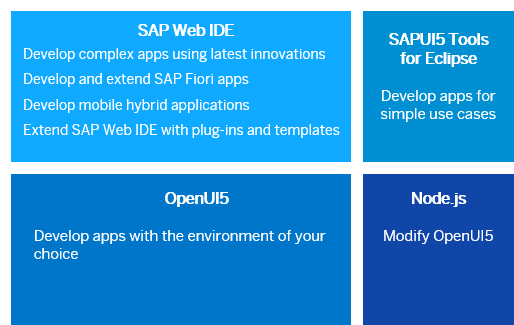
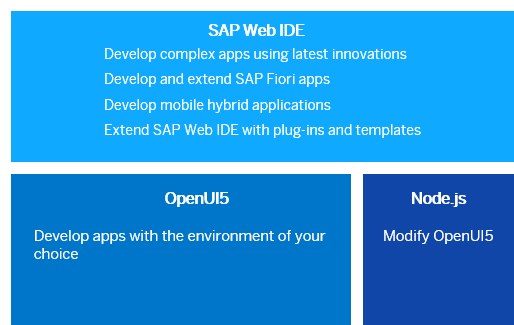
OpenUI5 Documentation Update 28.11.2019

diff --git a/docs/Resource_Handling_Modularization_and_Localization_91f2b4d.md b/docs/Resource_Handling_Modularization_and_Localization_91f2b4d.md
@@ -10,7 +10,7 @@ view on: [demo kit nightly build](https://openui5nightly.hana.ondemand.com/#/top
 
 ## Resource Handling: Modularization and Localization
 
-The handling of resources in OpenUI5 is divided in a client-side and a server-side part. The two parts are complementary and do not depend on each other.
+The handling of resources in OpenUI5 is divided in a client-side and a server-side part. The two parts are complementary and don’t depend on each other.
 
 The server-side resource handling is an optional component to improve the client-server interaction by providing a server-side locale fallback instead of a client-side fallback with multiple requests. The server-side resource handling is mainly used in Eclipse to support the modularized development of OpenUI5 applications and libraries.
 
@@ -18,7 +18,7 @@ The server-side resource handling is an optional component to improve the client
 
 <a name="loio91f2b4d66f4d1014b6dd926db0e91070__section_866E1131207A4BD98456A7C2E53F12D3"/>
 
-### Client-side Resource Handling
+### Client-Side Resource Handling
 
 OpenUI5 provides the following mechanism for handling resources on the client:
 
@@ -33,9 +33,9 @@ In both cases, OpenUI5 loads additional resources from a server. This server can
 
 <a name="loio91f2b4d66f4d1014b6dd926db0e91070__section_6913A7D3F65341FBA039B6231078E45C"/>
 
-### Server-side Resource Handling
+### Server-Side Resource Handling
 
-For the Java server and the integration into Eclipse, OpenUI5 provides a resource handler to improve the interaction between client and server, for example by providing a server-side locale fallback for the language to avoid multiple requests to get the correct language. It is also used to support modularized development of OpenUI5 applications and libraries. The Java resource handler is aligned with the concept of the JavaServer Faces.
+For the Java server and the integration into Eclipse, OpenUI5 provides a resource handler to improve the interaction between client and server, for example by providing a server-side locale fallback for the language to avoid multiple requests to get the correct language. It’s also used to support modularized development of OpenUI5 applications and libraries. The Java resource handler is aligned with the concept of the JavaServer Faces.
 
 -   The default implementation must support packaging resources in the web application root under the path `resources/<resourceIdentifier>` relative to the web app root.
 
@@ -50,18 +50,18 @@ The OpenUI5 resource handler extends this concept to support standard and test-r
 
 -    `test-resources/**` 
 
-    Test resources are resources which are samples and only relevant for testing purposes e.g. the content of the OpenUI5 test suite.
+    Test resources are resources that are samples and only relevant for testing purposes, for example, the content of the OpenUI5 test suite.
 
 
 The resource handler in OpenUI5 provides the following additional features:
 
 -   Theme fallback:
 
-    If resources are not available for a theme, the resource handler automatically checks the base theme for such resources and returns them instead of a 404 error message.
+    If resources aren’t available for a theme, the resource handler automatically checks the base theme for such resources and returns them instead of a 404 error message.
 
 -   Resource bundle fallback:
 
-    This fallback is similar to the client-side mechanism for loading resource bundles, but it negotiates the request on the server and returns the best found resource bundle instead of issueing a 404 error, for example:
+    This fallback is similar to the client-side mechanism for loading resource bundles, but it negotiates the request on the server and returns the best found resource bundle instead of issuing a 404 error, for example:
 
     `messagebundle_en_US.properties > messagebundle_en.properties > messagebundle.properties` 
 
@@ -115,17 +115,17 @@ Before you use it, make sure that the `ResourceServlet` is available in the clas
 
 ### Configuration
 
-The resource handler is configured via context parameters which are defined in the `web.xml`. The following table gives an overview about configuration parameters:
+The resource handler is configured via context parameters, which are defined in the `web.xml`. The following table gives an overview about configuration parameters:
 
 |Key|Description|
 |---|-----------|
 |`com.sap.ui5.resource.USE_CACHE`|Flag for resource cache enabling; default: `true`|
-|`com.sap.ui5.resource.MAX_AGE`|Specifies the maximum age of resources in millis; default: `604800000` = 1 week|
+|`com.sap.ui5.resource.MAX_AGE`|Specifies the maximum age of resources in milliseconds; default: `604800000` = 1 week|
 |`com.sap.ui5.resource.ACCEPTED_ORIGINS`|List of accepted origins, for example `*`, `*mycompany.corp`, or `server.mycompany.corp`; default: empty|
 |`com.sap.ui5.resource.DEV_MODE`|Flag development mode enabling; default: `false`|
 |`com.sap.ui5.resource.TEMPLATE_PATH`|Specifies path to template for resource listing; default: `/templates/listing.html`|
 |`com.sap.ui5.resource.VERBOSE`|Specifies verbosity of the resource handler; default: `false`|
-|`com.sap.ui5.resource.REMOTE_LOCATION`|Specifies the location that is used to proxy requests to resources that are not available locally; default: empty|
+|`com.sap.ui5.resource.REMOTE_LOCATION`|Specifies the location that is used to proxy requests to resources that aren’t available locally; default: empty|
 |`com.sap.ui5.resource.PREFER_REMOTE_LOCATION`|Flag to resolve the resource from the remote location before fallback to classpath; default: `false`|
 |`com.sap.ui5.resource.USE_SERVER_CACHE`|Flag to enable caching of any resources in resource servlet; default: `true` \(default in dev mode: `false`|
 
@@ -137,7 +137,7 @@ Configuration parameters are added as context parameters to the web.xml.
 
 ### Development Mode
 
-When starting to develop OpenUI5 controls and modules being located inside the servlet paths `resources/` or `test-resources/` it makes the development process easier to disable the caching of such resources as well as to enable the resource browsing. To activate the development mode, add the following context parameter:
+When you're starting to develop OpenUI5 controls and modules being located inside the servlet paths `resources/` or `test-resources/`, it makes the development process easier to disable the caching of such resources as well as to enable the resource browsing. To activate the development mode, add the following context parameter:
 
 ``` xml
   <!-- BEGIN: DEV MODE -->
@@ -176,13 +176,13 @@ You can use the `ResourceServlet` to tunnel/proxy requests to another server tha
 
 This dispatches the requests from `resources/sap/m/Button.js` to `http://%server%:%port%/sapui5/resources/sap/m/Button.js`.
 
-If you are located behind a proxy and the remote location is outside your local network you can configure the proxy settings via the standard Java Networking and Proxy configurations by setting the system properties \(for HTTP\): `http.proxyHost`, `http.proxyPort`, `http.nonProxyHosts`, or \(for HTTPS\) `https.proxyHost`, `https.proxyPort`, `https.nonProxyHosts` of your Java runtime environment.
+If you are located behind a proxy and the remote location is outside your localnetwork, you can configure the proxy settings via the standard Java Networking and Proxy configurations by setting the system properties \(for HTTP\): `http.proxyHost`, `http.proxyPort`, `http.nonProxyHosts`, or \(for HTTPS\) `https.proxyHost`, `https.proxyPort`, `https.nonProxyHosts` of your Java runtime environment.
 
-In general for the resources returned from the proxy the `ResourceServlet` is enabling caching. By default, it uses the configured `com.sap.ui5.resource.MAX_AGE` to avoid too much load on the `ResourceServlet`.
+In general, for the resources returned from the proxy the `ResourceServlet` is enabling caching. By default, it uses the configured `com.sap.ui5.resource.MAX_AGE` to avoid too much load on the `ResourceServlet`.
 
 **Verify that a Resource was Retrieved from Remote Location**
 
-When in development mode it is possible to verify that a resource was retrieved from the desired remote location by checking the response header of the respective request. In this case the response header has an entry *x-sap-ResourceUrl = remote resource URL*, for example:
+When in development mode, it’s possible to verify that a resource was retrieved from the desired remote location by checking the response header of the respective request. In this case, the response header has an entry `x-sap-ResourceUrl = remote resource URL`, for example:
 
 ```
 x-sap-ResourceUrl = http://%server%:%port%/sap/public/bc/ui5_ui5/resources/sap-ui-core.js
@@ -218,7 +218,7 @@ Store the resources as follows:
         **/**
     ```
 
-    For custom JAR files you need to apply to this on your own.
+    For custom JAR files, you need to apply to this on your own.
 
 
 ***
@@ -229,9 +229,9 @@ Store the resources as follows:
 
 When you run OpenUI5 as an OSGi web bundle and reference the UI libraries as OSGi bundles, you need to determine the OpenUI5 OSGi bundles:
 
--   Extend the `ResourceServlet` in the OSGi servlet container by using an OSGi fragment that is responsible to add the OSGi flavor for the determination of UI libaries. Now the `ResourceServlet` is aware of the OSGi bundles and can search within the OSGi servlet container for UI libraries.
+-   Extend the `ResourceServlet` in the OSGi servlet container by using an OSGi fragment that is responsible to add the OSGi flavor for the determination of UI libraries. Now, the `ResourceServlet` is aware of the OSGi bundles and can search within the OSGi servlet container for UI libraries.
 
--   The `OSGiResourceServlet` uses the following entry in the `MANIFEST.MF` of the UI library's JAR files to determin the relevant UI libraries:
+-   The `OSGiResourceServlet` uses the following entry in the `MANIFEST.MF` of the UI library's JAR files to determine the relevant UI libraries:
 
     ```
     x-sap-ui5-ContentTypes: UILibrary

diff --git a/docs/OData_Operations_b54f789.md b/docs/OData_Operations_b54f789.md
@@ -102,6 +102,63 @@ You append "\(...\)" even though the action's resource URL does not contain them
 
 ### Operation Parameters
 
+You can use the parameters of a deferred operation binding inside an XML view without the need to use an additional UI model.
+
+The parameters are addressed by the path prefix "$Parameter". This can either be done by binding each parameter to the path prefix "$Parameter" \(Option 1\) or by having an outer binding with a "$Parameter" path \(Option 2\).
+
+> Note:
+> The path "$Parameter" must not be added directly to the path of a deferred operation binding. A deferred operation binding is identified by an ellipsis at the end of the path.
+> 
+> 
+
+This is how to bind each parameter individually:
+
+**View:**
+
+> Note:
+> Binding parameters to a dialog \(Option 1\)
+> 
+> ``` xml
+> <Dialog binding="{/ChangeTeamBudgetByID(...)}" id="operation1" title ="Change Team Budget">
+>     <buttons>
+>         ...         
+>     </buttons>
+>     <form:SimpleForm>
+>         <Label text="TeamID" />
+>         <Input value="{$Parameter/TeamID}" />
+>         <Label text="Budget" />
+>         <Input value="{$Parameter/Budget}" />
+>     </form:SimpleForm>
+> </Dialog>
+> ```
+> 
+> 
+
+Alternatively, you may bind the entire form to the `$Parameter` context:
+
+**View:**
+
+> Note:
+> Binding parameters to a dialog \(Option 2\)
+> 
+> ``` xml
+> <Dialog binding="{/ChangeTeamBudgetByID(...)}" id="operation2" title="Change Team Budget">
+>     <buttons>
+>         ...         
+>     </buttons>
+>     <form:SimpleForm binding="{$Parameter}">
+>         <Label text="TeamID" />
+>         <Input value="{TeamID}" />
+>         <Label text="Budget" />
+>         <Input value="{Budget}" />
+>     </form:SimpleForm>
+> </Dialog>
+> ```
+> 
+> 
+
+In either case, the values of the parameters are set using the model binding of the control, with no need to write any application code.
+
 Operation parameters can be set by calling the function `setParameter` on the operation binding, as shown in this example:
 
 **Controller:**
@@ -111,6 +168,36 @@ onSubmit : function (oEvent) {
     this.getView().byId("Submit").getObjectBinding().setParameter("Comment", sComment).execute();
 }
 ```
+
+The API method `getParameterContext` can be used to access parameters in controller code, see also [Accessing Data in Controller Code](Accessing_Data_in_Controller_Code_17b30ac.md)
+
+The example below demonstrates how a budget may be modified depending on the `TeamID`:
+
+**Controller:**
+
+> Note:
+> Reading parameter values using the parameter context
+> 
+> ``` js
+> adaptBudgetToTeam : function (){
+>     var oDialog = this.oView.byId("operation2"); // the second dialog in the paragraph before
+>         oParameterContext = oDialog.getObjectBinding().getParameterContext();
+>  
+>  
+>     if (oParameterContext.getProperty("TeamID') === "STARTUP") {
+>         oParameterContext.setProperty("Budget", 555.55);
+>     else {
+>         oParameterContext.setProperty("Budget", 123.45);
+>     }
+> }
+> ```
+> 
+> 
+
+> Note:
+> The parameter context is only defined if the operation binding is resolved.
+> 
+> 
 
 ***
 

diff --git a/docs/Make_Your_App_Performant_9c6400e.md b/docs/Make_Your_App_Performant_9c6400e.md
@@ -14,19 +14,19 @@ In case of performance issues, follow this checklist to see if you can resolve t
 
 Steps to check:
 
--   Use the UI5 Support Assistant to check for known issues: [Support Assistant](Support_Assistant_57ccd7d.md)
--   Use the content delivery network network \(CDN / AKAMAI\) to reduce latency effects: [Variant for Bootstrapping from Content Delivery Network](Variant_for____________Bootstrapping_from_Content_Delivery_Network_2d3eb2f.md)
--   Make sure that library preloads are active: XXXXXXXXXXXXXXXXXXXXXXXXXXX
--   Ensure that library preloads and modules are loaded asynchronously: [Use Asynchronous Loading](Use_Asynchronous_Loading_676b636.md)
--   Ensure that application resources are loaded via component preload: XXXXXXXXXXXXXXXXXXXXXX
--   Ensure that `jquery.sap.*` modules are migrated to their modularised variants: [Legacy jQuery.sap Replacement](Legacy_jQuery.sap_Replacement_a075ed8.md)
--   Check if the synchronous variants of UI5 factories are migrated to asynchronous variants: [Legacy Factories Replacement](Legacy_Factories_Replacement_491bd9c.md)
--   Ensure that model preload is enabled: [Manifest Model Preload](Manifest_Model_Preload_26ba6a5.md)
--   Check for slow network requests: XXXXXXXXXXXXXXXX
--   Check the amount of controls and data bindings: XXXXXXXXXXXXXXXXX
--   Render pages while waiting for the response of network requests \(reduce idle times\): XXXXXXXXXXXXX
--   Ensure that OData V2 metadata caching is enabled: XXXXXXXXXXXXX
--   Cache XML Preprocessor results: XXXXXXXXXXXXXXXXXXXX
+1.  Use the UI5 Support Assistant to check for known issues: [Support Assistant](Support_Assistant_57ccd7d.md)
+2.  Use the content delivery network network \(CDN / AKAMAI\) to reduce latency effects: [Variant for Bootstrapping from Content Delivery Network](Variant_for____________Bootstrapping_from_Content_Delivery_Network_2d3eb2f.md)
+3.  Make sure that library preloads are active: XXXXXXXXXXXXXXXXXXXXXXXXXXX
+4.  Ensure that library preloads and modules are loaded asynchronously: [Use Asynchronous Loading](Use_Asynchronous_Loading_676b636.md)
+5.  Ensure that application resources are loaded via component preload: XXXXXXXXXXXXXXXXXXXXXX
+6.  Ensure that `jquery.sap.*` modules are migrated to their modularised variants: [Legacy jQuery.sap Replacement](Legacy_jQuery.sap_Replacement_a075ed8.md)
+7.  Check if the synchronous variants of UI5 factories are migrated to asynchronous variants: [Legacy Factories Replacement](Legacy_Factories_Replacement_491bd9c.md)
+8.  Ensure that model preload is enabled: [Manifest Model Preload](Manifest_Model_Preload_26ba6a5.md)
+9.  Check for slow network requests: XXXXXXXXXXXXXXXX
+10. Check the amount of controls and data bindings: XXXXXXXXXXXXXXXXX
+11. Render pages while waiting for the response of network requests \(reduce idle times\): XXXXXXXXXXXXX
+12. Ensure that OData V2 metadata caching is enabled: XXXXXXXXXXXXX
+13. Cache XML Preprocessor results: XXXXXXXXXXXXXXXXXXXX
 
 Blog: SAPUI5 Application Startup Performance - Troubleshooting
 

diff --git a/docs/0index.md b/docs/0index.md
@@ -29,20 +29,6 @@ OpenUI5 Version for the OpenUI5 Demo Kit
                 -   [Create an index.html File](Create_an_index.html_File_f7cbafc.md)
                 -   [Run the App](Run_the_App_745424a.md)
                 -   [Create a Northwind Destination](Create_a_Northwind_Destination_3a16c7a.md)
-            -   [App Development Using SAPUI5 Tools for Eclipse](App_Development_Using_SAPUI5_Toolsfor_Eclipse_0404f90.md)
-                -   [Installing SAPUI5 Tools for Eclipse](Installing_SAPUI5_Tools_forEclipse_f25b203.md)
-                -   [Using SAPUI5 Tools for Eclipse](Using_SAPUI5_Tools_forEclipse_510d6ee.md)
-                    -   [Create an SAPUI5 Application Project](Create_an_SAPUI5_Application_Project_da0c8ca.md)
-                    -   [Add a Control to Your View](Add_a_Control_to_Your_View_07d2bdc.md)
-                    -   [Implement a Method in the Controller](Implement_a_Method_in_the_Controller_10c6b87.md)
-                    -   [Create an Additional View](Create_an_Additional_View_727bc3f.md)
-                    -   [Integrate a New View](Integrate_a_New_View_5da1208.md)
-                    -   [JavaScript Code Completion](JavaScript_Code_Completion_85ce1ed.md)
-                    -   [Linking your Eclipse Editor to the Demo Kit](Linking_your_Eclipse_Editor_to_the_Demo_Kit_8d80e84.md)
-                    -   [Use JavaScript and XML Templates](Use_JavaScript_and_XML_Templates_fcf5e9b.md)
-                    -   [SAPUI5 Snippets](SAPUI5_Snippets_b43514f.md)
-                    -   [Running an App in the Application Preview](Running_an_App_in_the_Application_Preview_05a9c69.md)
-                        -   [Use a SimpleProxyServlet for Testing to Avoid Cross-domain Requests](Use_a_SimpleProxyServlet_for_Testing_to_Avoid_Cross-domain_Requests_2d3f5fb.md)
             -   [Developing OpenUI5](Developing_OpenUI5_ee8726a.md)
             -   [Development for Hybrid Web Containers](Development_for_Hybrid_Web_Containers_293eb94.md)
         -   [Quick Start](Quick_Start_592f36f.md)

diff --git a/docs/index.md b/docs/index.md
@@ -29,20 +29,6 @@ OpenUI5 Version for the OpenUI5 Demo Kit
                 -   [Create an index.html File](Create_an_index.html_File_f7cbafc.md)
                 -   [Run the App](Run_the_App_745424a.md)
                 -   [Create a Northwind Destination](Create_a_Northwind_Destination_3a16c7a.md)
-            -   [App Development Using SAPUI5 Tools for Eclipse](App_Development_Using_SAPUI5_Toolsfor_Eclipse_0404f90.md)
-                -   [Installing SAPUI5 Tools for Eclipse](Installing_SAPUI5_Tools_forEclipse_f25b203.md)
-                -   [Using SAPUI5 Tools for Eclipse](Using_SAPUI5_Tools_forEclipse_510d6ee.md)
-                    -   [Create an SAPUI5 Application Project](Create_an_SAPUI5_Application_Project_da0c8ca.md)
-                    -   [Add a Control to Your View](Add_a_Control_to_Your_View_07d2bdc.md)
-                    -   [Implement a Method in the Controller](Implement_a_Method_in_the_Controller_10c6b87.md)
-                    -   [Create an Additional View](Create_an_Additional_View_727bc3f.md)
-                    -   [Integrate a New View](Integrate_a_New_View_5da1208.md)
-                    -   [JavaScript Code Completion](JavaScript_Code_Completion_85ce1ed.md)
-                    -   [Linking your Eclipse Editor to the Demo Kit](Linking_your_Eclipse_Editor_to_the_Demo_Kit_8d80e84.md)
-                    -   [Use JavaScript and XML Templates](Use_JavaScript_and_XML_Templates_fcf5e9b.md)
-                    -   [SAPUI5 Snippets](SAPUI5_Snippets_b43514f.md)
-                    -   [Running an App in the Application Preview](Running_an_App_in_the_Application_Preview_05a9c69.md)
-                        -   [Use a SimpleProxyServlet for Testing to Avoid Cross-domain Requests](Use_a_SimpleProxyServlet_for_Testing_to_Avoid_Cross-domain_Requests_2d3f5fb.md)
             -   [Developing OpenUI5](Developing_OpenUI5_ee8726a.md)
             -   [Development for Hybrid Web Containers](Development_for_Hybrid_Web_Containers_293eb94.md)
         -   [Quick Start](Quick_Start_592f36f.md)

diff --git a/docs/sidebar.md b/docs/sidebar.md
@@ -23,20 +23,6 @@
                 -   [Create an index.html File](Create_an_index.html_File_f7cbafc.md)
                 -   [Run the App](Run_the_App_745424a.md)
                 -   [Create a Northwind Destination](Create_a_Northwind_Destination_3a16c7a.md)
-            -   [App Development Using SAPUI5 Tools for Eclipse](App_Development_Using_SAPUI5_Toolsfor_Eclipse_0404f90.md)
-                -   [Installing SAPUI5 Tools for Eclipse](Installing_SAPUI5_Tools_forEclipse_f25b203.md)
-                -   [Using SAPUI5 Tools for Eclipse](Using_SAPUI5_Tools_forEclipse_510d6ee.md)
-                    -   [Create an SAPUI5 Application Project](Create_an_SAPUI5_Application_Project_da0c8ca.md)
-                    -   [Add a Control to Your View](Add_a_Control_to_Your_View_07d2bdc.md)
-                    -   [Implement a Method in the Controller](Implement_a_Method_in_the_Controller_10c6b87.md)
-                    -   [Create an Additional View](Create_an_Additional_View_727bc3f.md)
-                    -   [Integrate a New View](Integrate_a_New_View_5da1208.md)
-                    -   [JavaScript Code Completion](JavaScript_Code_Completion_85ce1ed.md)
-                    -   [Linking your Eclipse Editor to the Demo Kit](Linking_your_Eclipse_Editor_to_the_Demo_Kit_8d80e84.md)
-                    -   [Use JavaScript and XML Templates](Use_JavaScript_and_XML_Templates_fcf5e9b.md)
-                    -   [SAPUI5 Snippets](SAPUI5_Snippets_b43514f.md)
-                    -   [Running an App in the Application Preview](Running_an_App_in_the_Application_Preview_05a9c69.md)
-                        -   [Use a SimpleProxyServlet for Testing to Avoid Cross-domain Requests](Use_a_SimpleProxyServlet_for_Testing_to_Avoid_Cross-domain_Requests_2d3f5fb.md)
             -   [Developing OpenUI5](Developing_OpenUI5_ee8726a.md)
             -   [Development for Hybrid Web Containers](Development_for_Hybrid_Web_Containers_293eb94.md)
         -   [Quick Start](Quick_Start_592f36f.md)

diff --git a/docs/Enabling_Responsive_Paddings_3b718b5.md b/docs/Enabling_Responsive_Paddings_3b718b5.md
@@ -73,12 +73,13 @@ The following list shows the controls that support responsive paddings:
 
 -   `sap.m.Page`
 -   `sap.m.Popover`
+-   `sap.m.Dialog`
 -   `sap.m.Wizard`
 
 To enable this concept and to add responsive paddings to an element of the controls, add the following classes to the controls, depending on your use case:
 
-|`sap.m.Page`|`sap.m.Popover`|`sap.m.Wizard`|
-|------------|---------------|--------------|
+|`sap.m.Page`|`sap.m.Popover`, `sap.m.Dialog`|`sap.m.Wizard`|
+|------------|-------------------------------|--------------|
 | `sapUiResponsivePadding—header` `sapUiResponsivePadding—subHeader` `sapUiResponsivePadding—content` `sapUiResponsivePadding—footer` `sapUiResponsivePadding—floatingFooter` | `sapUiResponsivePadding—header` `sapUiResponsivePadding—subHeader` `sapUiResponsivePadding—content` `sapUiResponsivePadding—footer` | `sapUiResponsivePadding—header` `sapUiResponsivePadding—content` |
 
 ***

diff --git a/docs/Simulating_User_Interactions_on_Controls_8615a0b.md b/docs/Simulating_User_Interactions_on_Controls_8615a0b.md
@@ -31,7 +31,7 @@ oOpa.waitFor({
 
 ### Choosing an Item from `sap.m.Select`
 
-Here's an example showing how to choose an item from `sap.m.Select` or `sap.m.ComboBox`, using the `waitFor` function of OPA5, and the `Press` action:
+Here's an example showing how to choose an item from `sap.m.Select`, using the `waitFor` function of OPA5, and the `Press` action:
 
 ``` js
 sap.ui.require([
@@ -67,6 +67,8 @@ sap.ui.require([
 
 });
 ```
+
+For `sap.m.Combobox`, use `controlType: "sap.m.StandardListItem"`.
 
 ***
 

diff --git a/docs/Development_Environment_7bb04e0.md b/docs/Development_Environment_7bb04e0.md
@@ -20,6 +20,5 @@ Depending on your use case, you can choose one of the following development envi
 
 -   [App Development Using SAP Web IDE](App_Development_Using_SAP_Web_IDE_13ced94.md)
 -   [App Development Using OpenUI5](App_Development_Using_OpenUI5_b1fbe1a.md)
--   [App Development Using SAPUI5 Tools for Eclipse](App_Development_Using_SAPUI5_Toolsfor_Eclipse_0404f90.md)
 -   [Developing OpenUI5](Developing_OpenUI5_ee8726a.md)
 
